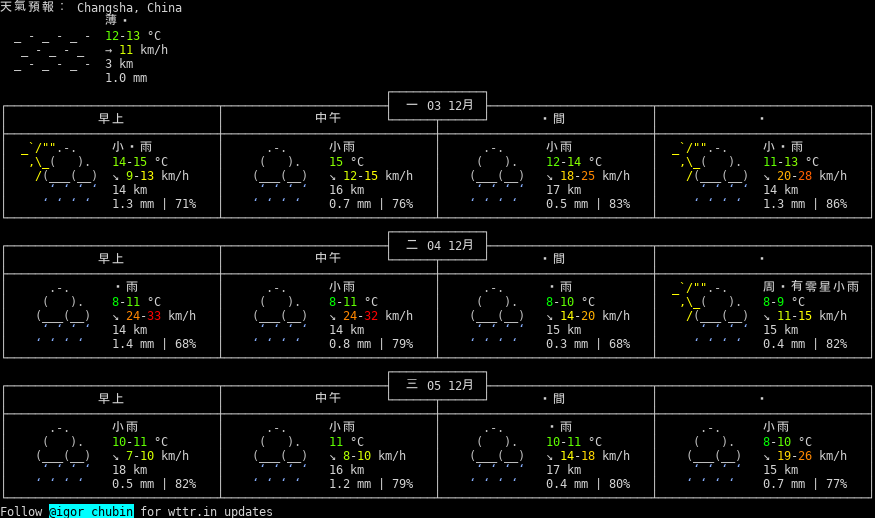
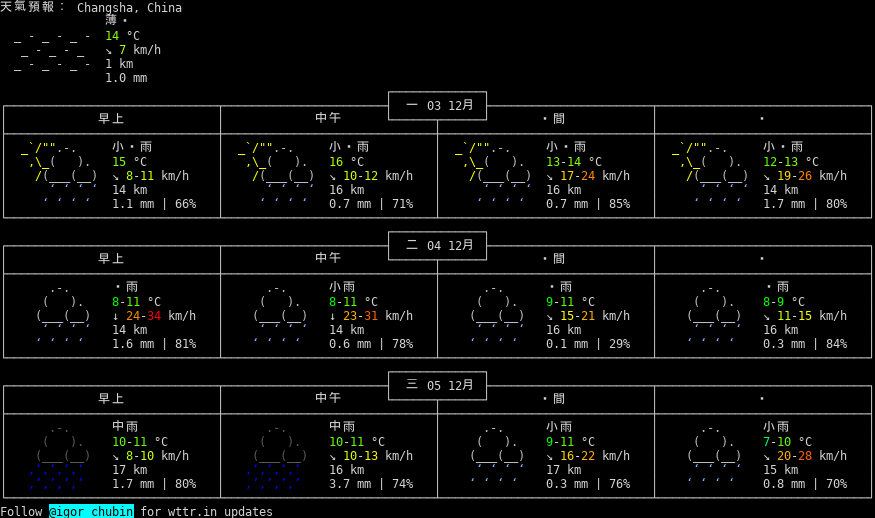
update Today's log:)

diff --git a/README.md b/README.md
@@ -2331,3 +2331,4 @@ My Shell_script learning note
 * 2018年12月03日 星期Mon AM 9:00 CST   天气: 13°C (Heiwajima, Japan)
 * 2018年12月03日 星期Mon AM 9:20 CST   天气: 13°C (Heiwajima, Japan)
 * 2018年12月03日 星期Mon AM 9:40 CST   天气: 13°C (Heiwajima, Japan)
+* 2018年12月03日 星期Mon AM10:00 CST   天气: 14°C (Heiwajima, Japan)

diff --git a/weather.md b/weather.md
@@ -9153,3 +9153,7 @@
 
 ![](PNG/20181203.png)
 
+2018年 12月 03日
+
+![](PNG/20181203.png)
+
